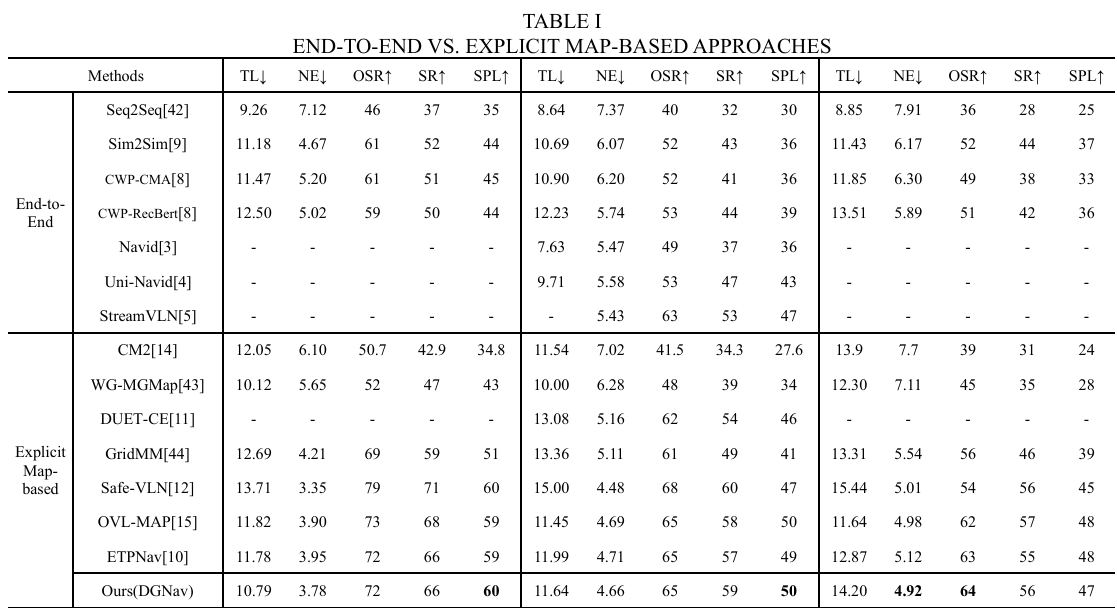
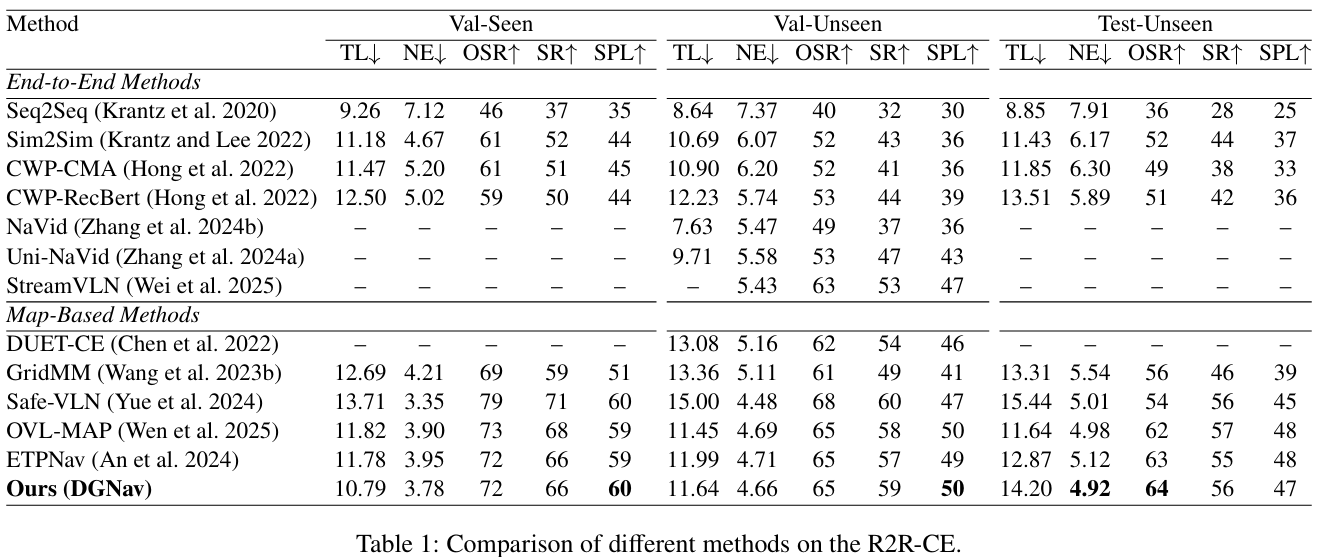
6.23

Changed region(s): [[0.0, 0.0, 1.0, 1.0], [0.974, 0.2747, 1.0, 0.3052], [0.6392, 0.7325, 0.6697, 0.763]]

diff --git a/README.md b/README.md
@@ -120,16 +120,3 @@ Thanks for their great works!
 ![table1](./assets/table1.png)
 
 ![table2](./assets/table2.png)
-
-# Citation
-
-If you find this repository is useful, please consider citing our paper:
-
-```
-@article{peng2026dynamic,
-  title={Dynamic Topology Awareness: Breaking the Granularity Rigidity in Vision-Language Navigation},
-  author={Peng, Jiankun and Guo, Jianyuan and Xu, Ying and Liu, Yue and Yan, Jiashuang and Ye, Xuanwei and Li, Houhua and Wang, Xiaoming},
-  journal={arXiv preprint arXiv:2601.21751},
-  year={2026}
-}
-```
